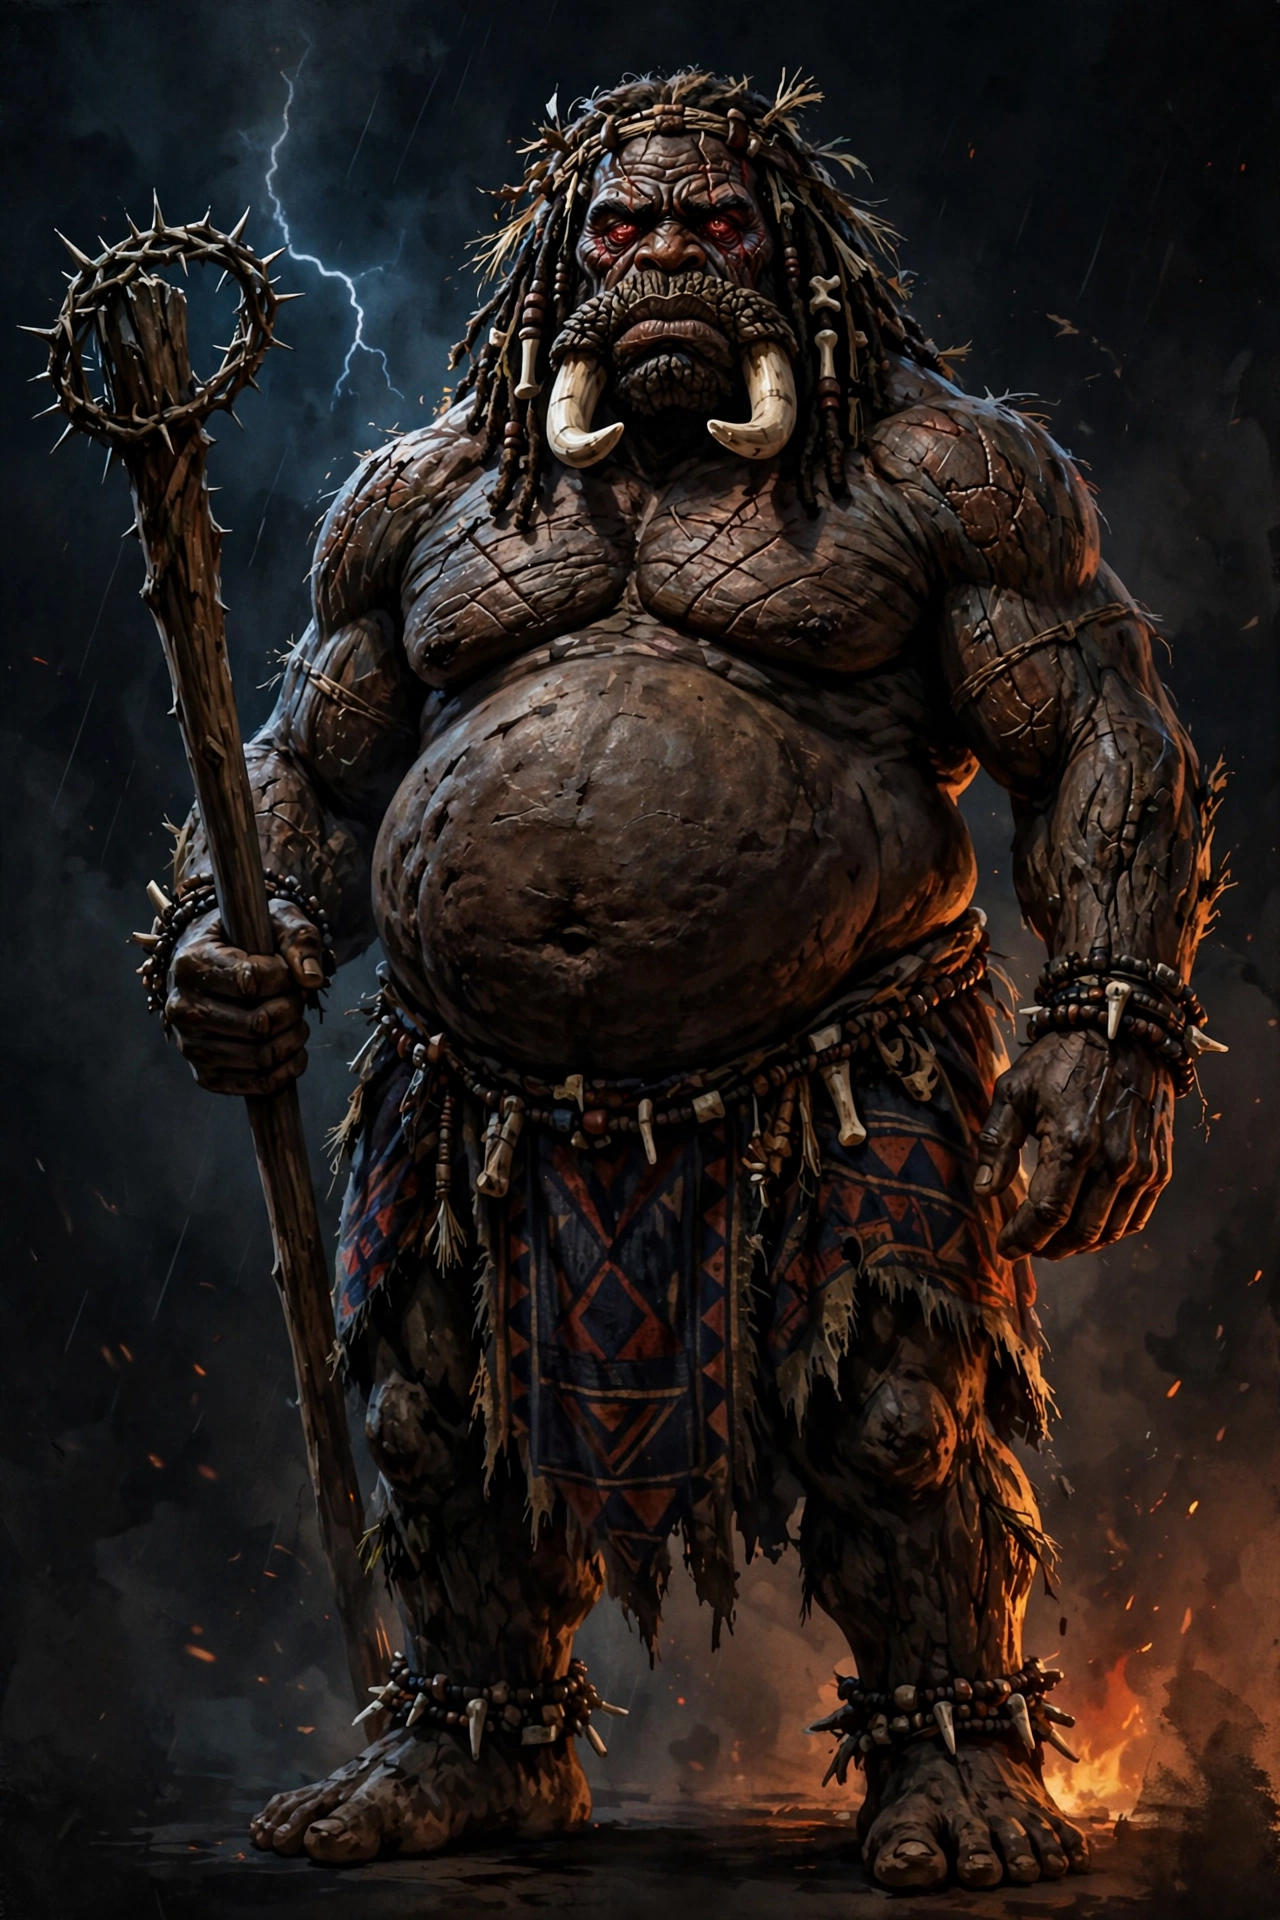
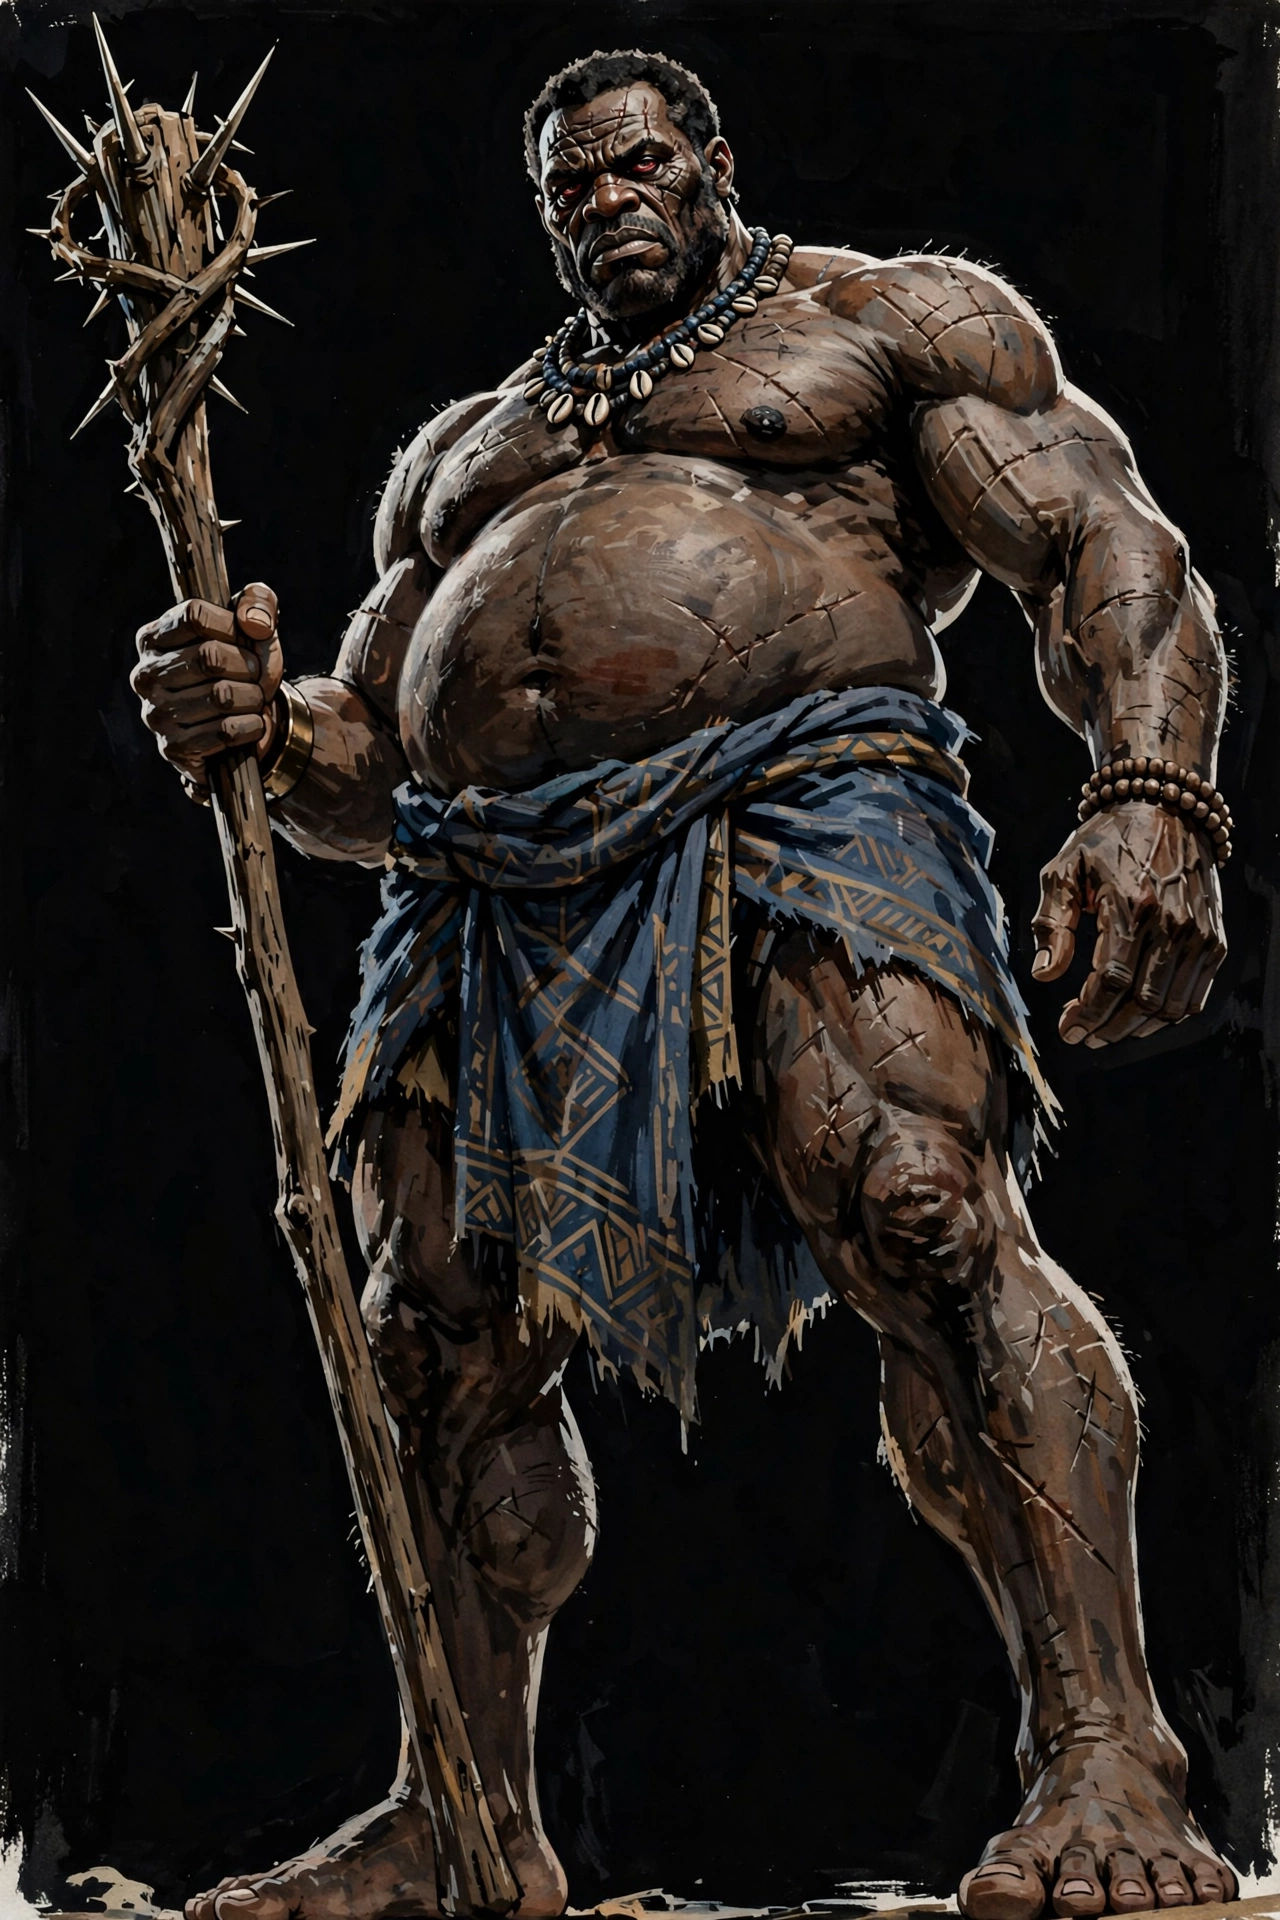
Use the human Anukili art and add review fixes for task 002

diff --git a/docs/tasks/002-review-fixes.md b/docs/tasks/002-review-fixes.md
@@ -1,0 +1,15 @@
+# Task 002 review fixes
+
+You are on the branch for pull request 2. Make only these fixes.
+
+1. **All type renders in the fallback font.** `app/layout.tsx` registers the fonts through `next/font/local`, so the browser knows them under generated names, but `app/globals.css` asks for `"Newsreader"` and `"Instrument Sans"` by name. Newsreader never applies, and headlines render in heavy Georgia. Point `--serif` and `--sans` at the `--font-serif` and `--font-sans` variables, with the current fallbacks. Make sure those variables are set on an element above every scene.
+
+2. **Weights.** The font files are variable fonts, but the layout declares them once per weight. Declare each as one source with a weight range, so weight 300 really renders light. Check the range against the file.
+
+3. **Character art changed.** `public/anukili/anukili.webp` and `hippo.webp` now show a human man with a different crop. Check that the world's character art, covers and shelf still frame his face, using `background-position` where needed. Do not change the art.
+
+Add a test that `globals.css` does not name either font family directly.
+
+## Acceptance
+
+`pnpm lint`, `pnpm typecheck`, `pnpm test` and `pnpm build` pass. Commit on the current branch.
